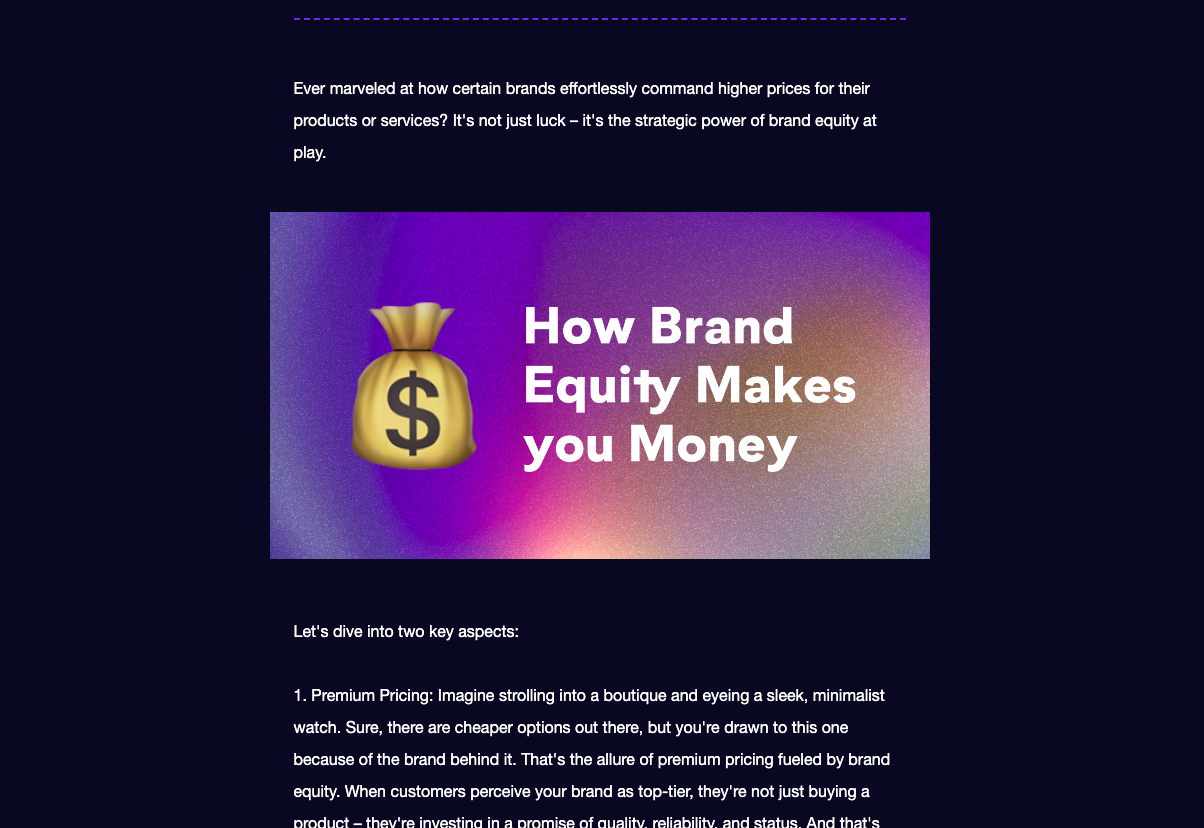
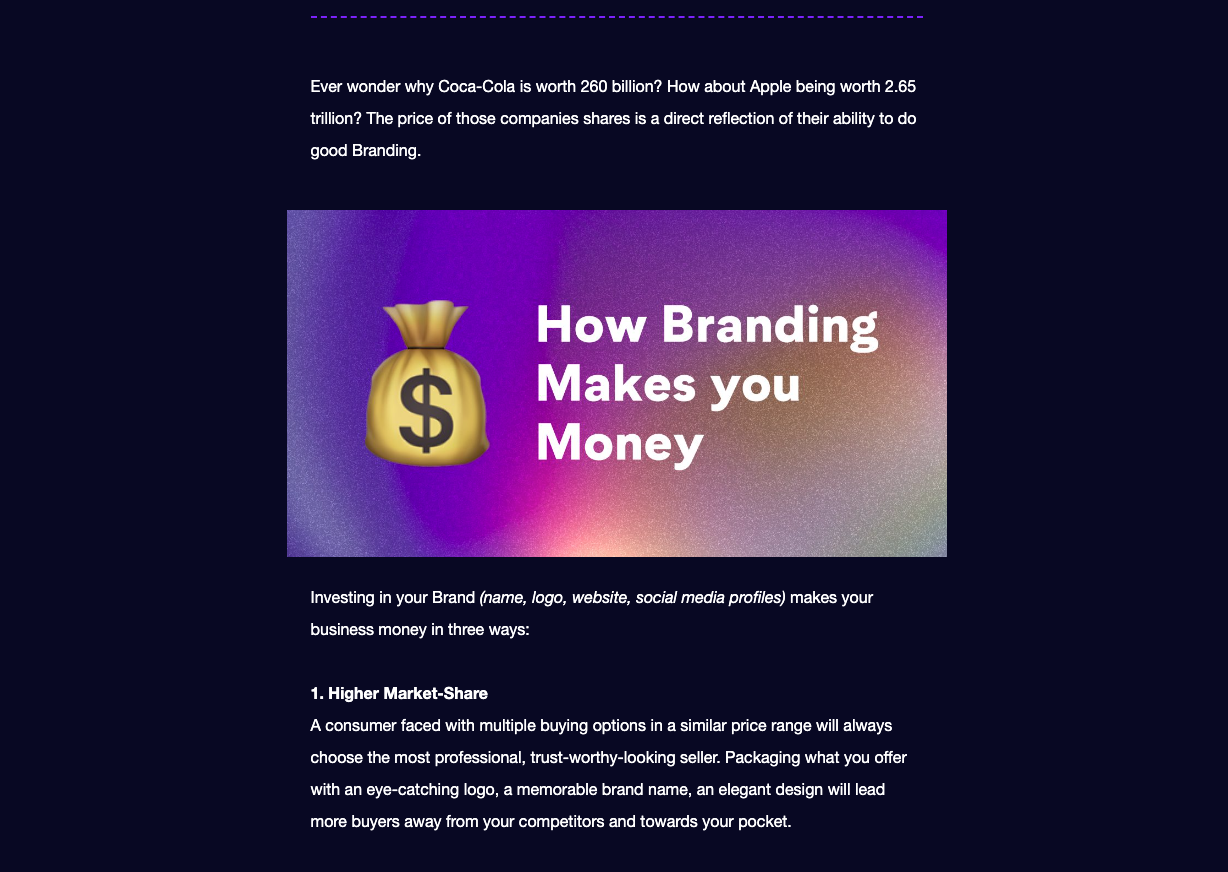
content update

Changed region(s): [[0.2151, 0.2415, 0.799, 1.0], [0.2458, 0.0906, 0.7375, 0.2114], [0.2766, 0.0, 0.7375, 0.0302]]

diff --git a/brand/content/content-generation.php b/brand/content/content-generation.php
@@ -15,10 +15,10 @@
 </ul>
 <p>Examples:</p>
 <ul class="hanging-list">
+    <li>💰 How Branding Makes you Money</li>
     <li>🤖 You Should Have an AI Ethics Policy</li>
     <li>🧪 How our Small Team Invests in R&D</li>
     <li>📕 How to Write Useful Brand Guidelines</li>
-    <li>💰 How Brand Equity Makes you Money</li>
 </ul>
 <h4 class="heading-3" id="body-text">Preview Text</h4>
 <ul class="hanging-list">
@@ -27,7 +27,7 @@
 </ul>
 <p>Example</p>
 <div class="preview">
-    <p class="align-left" style="font-style: italic;">Ever marveled at how certain brands effortlessly command higher prices for their products or services? </p>
+    <p class="align-left" style="font-style: italic;">Ever wondered why Coca-Cola is worth 260 billion? How about Apple being worth 2.65 trillion? </p>
 </div>
 <h4 class="heading-3" id="image">Image</h4>
 <p>Start the email message with a cover image.</p>
@@ -44,10 +44,11 @@
 </ul>
 <p>Example</p>
 <div class="preview">
-    <p style="text-align:left;font-style:italic;">Let's dive into two key aspects:</p>
-    <p style="text-align:left;font-style:italic;">1. Premium Pricing: Imagine strolling into a boutique and eyeing a sleek, minimalist watch. Sure, there are cheaper options out there, but you're drawn to this one because of the brand behind it. That's the allure of premium pricing fueled by brand equity. When customers perceive your brand as top-tier, they're not just buying a product – they're investing in a promise of quality, reliability, and status. And that's worth every penny.</p>
-    <p style="text-align:left;font-style:italic;">2. Company Value: Now, picture this: You're in the boardroom, pitching your company to potential investors. As you showcase your impressive revenue figures and growth projections, there's one intangible asset that steals the spotlight – your brand. A well-crafted brand isn't just a logo or a tagline; it's a strategic asset that can significantly boost the value of your company. Investors know that a strong brand translates to customer loyalty, market dominance, and long-term sustainability – all factors that drive up company valuation. Whether you're seeking new investors or looking to increase the value of shares for existing stakeholders, your brand is your secret weapo</p>
-    <p style="text-align:left;font-style:italic;">If you're ready to unlock the full potential of your brand and elevate your company to new heights of success, let's chat. Together, we'll harness the power of brand equity to drive premium pricing and skyrocket your company's value.</p>
+    <p style="text-align:left;font-style:italic;">Ever wonder why Coca-Cola is worth 260 billion? How about Apple being worth 2.65 trillion? The price of those companies shares is a direct reflection of their ability to do good Branding.</p>
+    <p style="text-align:left;font-style:italic;">Investing in your Brand (name, logo, website, social media profiles) makes your business money in three ways:</p>
+    <p style="text-align:left;font-style:italic;">1. Higher Market-Share<br>A consumer faced with multiple buying options in a similar price range will always choose the most professional, trust-worthy-looking seller. Packaging what you offer with an eye-catching logo, a memorable brand name, an elegant design will lead more buyers away from your competitors and towards your pocket.</p>
+    <p style="text-align:left;font-style:italic;">2. Higher Pricing<br>Once you’ve gained portion of the Market-Share...</p>
+    <p style="text-align:left;font-style:italic;">3. Higher Company Valuation<br>If you were to buy 100% of shares of The Coca-Cola Company, you would be paying for ownership of (A) the Upside Potential (income from future sales generated by the company), (B) their Tangible Assets (manufacturing plants, vehicles, inventory of ingredients, …), and (B) their Intangible Assets, like the intellectual property of the Brand Identity (brand name, …)....</p>
 </div>
 <h4 class="heading-3" id="newsletter-signature">Signature</h4>
 <div class="preview">
